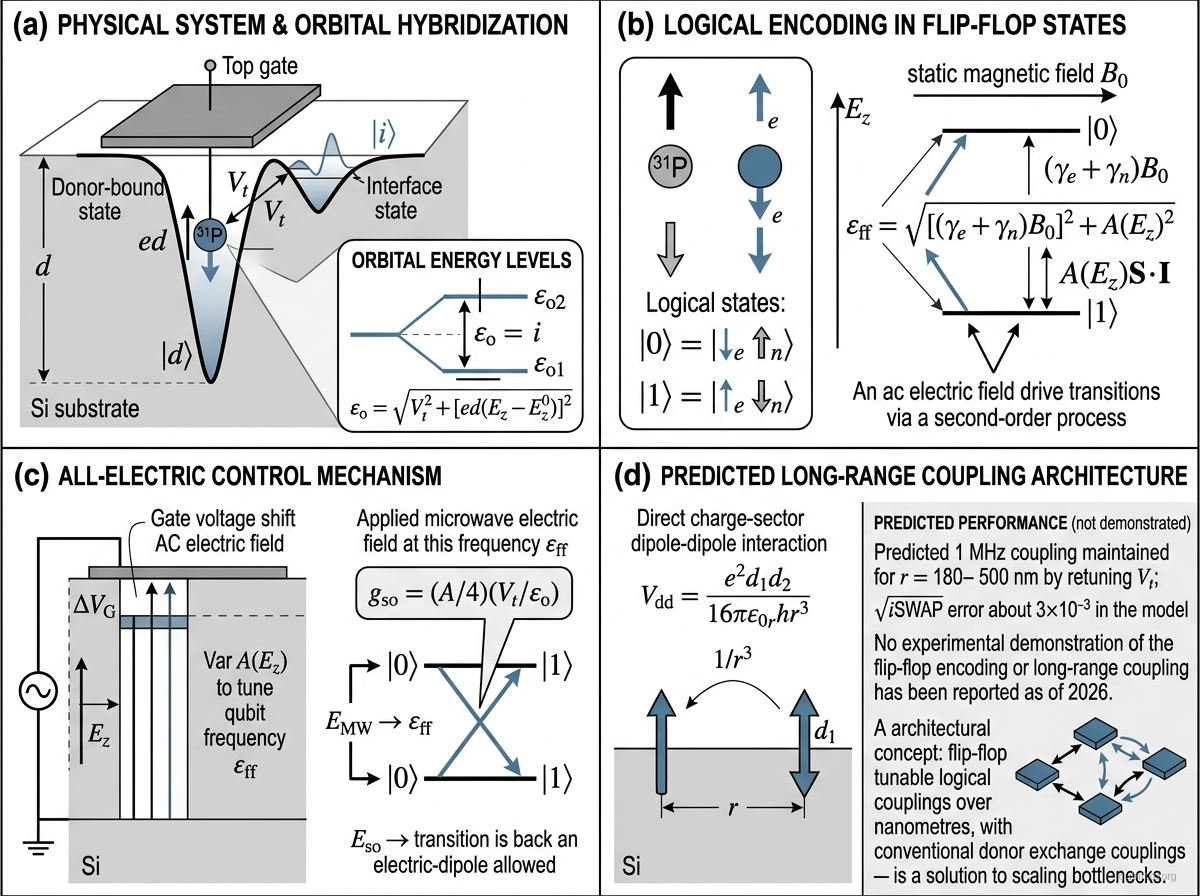
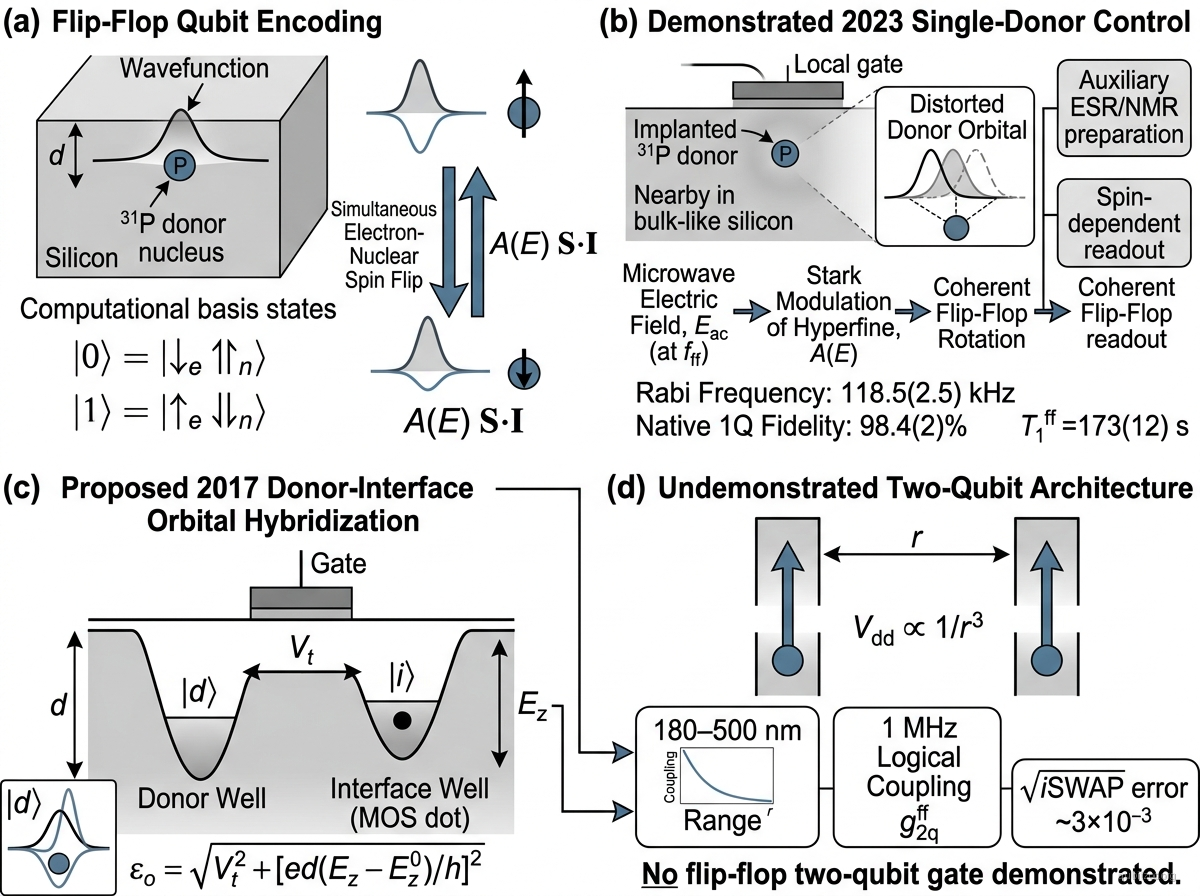
Deep-audit flip-flop qubit

diff --git a/content/Zoo/flip-flop-qubit.md b/content/Zoo/flip-flop-qubit.md
@@ -2,15 +2,15 @@
 title: Flip-Flop Qubit
 entry_type: qubit
 technology_family: Semiconducting
-status: proposed
+status: demonstrated
 figure_reviewed: true
 figure_renderer: "nano-banana-2"
 figure_model: "google/gemini-3.1-flash-image-preview"
 figure_provenance: "Figures/flip-flop-qubit-figure.provenance.json"
-figure_reviewed_by: "Codex corpus visual/physics audit 2026-08-05"
-figure_reviewed_at: "2026-08-05T12:35:45.883950+00:00"
+figure_reviewed_by: "Scibok daily deep audit 2026-09-06"
+figure_reviewed_at: "2026-09-06T14:17:50.790778+00:00"
 first_proposed_year: 2017
-first_demonstrated_year: null
+first_demonstrated_year: 2023
 keywords:
 - flip-flop qubit
 - silicon
@@ -21,10 +21,10 @@ keywords:
 - electron-nuclear spin
 - Tosi
 influence_score: 0.72
-last_updated: '2026-08-02'
+last_updated: '2026-09-06'
 generated_by: scibok-curation
 extracted_by: scibok
-verified_by: codex-recovery-audit-2026-08-02
+verified_by: scibok-deep-audit-2026-09-06
 ---
 
 ## Figure
@@ -33,15 +33,15 @@ verified_by: codex-recovery-audit-2026-08-02
 
 ## Description
 
-The flip-flop qubit encodes quantum information in the combined electron-nuclear spin states of a phosphorus ($^{31}\text{P}$) donor atom in silicon. The two computational basis states are:
+The flip-flop qubit encodes quantum information in the combined electron-nuclear spin states of a phosphorus ($^{31}\text{P}$) donor atom in silicon. Using the convention adopted in the proposal and experimental demonstration, the computational basis states are:
 
-$$|0\rangle = |\!\uparrow_e\, \Downarrow_n\rangle, \quad |1\rangle = |\!\downarrow_e\, \Uparrow_n\rangle$$
+$$|0\rangle = |\!\downarrow_e\, \Uparrow_n\rangle, \quad |1\rangle = |\!\uparrow_e\, \Downarrow_n\rangle$$
 
 where arrows denote electron spin ($\uparrow/\downarrow$) and nuclear spin ($\Uparrow/\Downarrow$) orientations. In each state, the electron and nuclear spins point in opposite directions — hence "flip-flop." These states are connected by a simultaneous electron-nuclear spin flip driven by transverse hyperfine interaction, which can be electrically tuned by displacing the electron wavefunction relative to the nucleus using gate electrodes.
 
-The critical innovation is to hybridize the donor-bound orbital $|d\rangle$ with an interface orbital $|i\rangle$. Their vertical separation $d$ creates a tunable electric dipole $ed$, and hyperfine coupling transfers that electric interaction to the flip-flop spin subspace. In the proposal, a $1\,\text{MHz}$ effective coupling can be maintained for donor separations from 180 to 500 nm by retuning the donor-interface tunnel coupling. That is far less placement-sensitive than the exchange interaction used by conventional donor-spin architectures.
+The 2017 processor proposal adds a deliberately hybridized orbital degree of freedom: a donor-bound orbital $|d\rangle$ and an interface orbital $|i\rangle$. Their vertical separation $d$ creates a tunable electric dipole $ed$, and hyperfine coupling transfers that electric interaction to the flip-flop spin subspace. In the proposal, a $1\,\text{MHz}$ effective coupling can be maintained for donor separations from 180 to 500 nm by retuning the donor-interface tunnel coupling. That is far less placement-sensitive than the exchange interaction used by conventional donor-spin architectures.
 
-The qubit is controlled entirely via microwave electric fields applied to gate electrodes, without requiring oscillating magnetic fields or ESR/NMR pulses. The qubit frequency is tunable via dc gate voltages that shift the electron position, and two-qubit gates are activated by tuning two qubits into resonance.
+The first experiment, reported in 2023, demonstrated coherent electric control of the same flip-flop spin encoding in a single implanted phosphorus donor. It modulated the hyperfine coupling by electrically distorting the donor electron wavefunction, but did **not** reach the donor-interface large-dipole regime or demonstrate the proposed long-range two-qubit coupling. The logical flip-flop rotation itself uses a microwave electric field; the experiment still used auxiliary ESR/NMR operations for preparation and readout.
 
 ## Hamiltonian
 
@@ -51,13 +51,36 @@ $$
 \mathcal H_{\mathrm{orb}}=\frac{1}{2}\left[V_t\sigma_x-\frac{ed(E_z-E_z^0)}{h}\sigma_z\right],
 $$
 
-where $V_t$ is the donor-interface tunnel coupling and $E_z^0$ is the ionization field. The spin sector contains the electron and nuclear Zeeman terms plus the electrically tunable hyperfine interaction $A(E_z)\mathbf S\!\cdot\!\mathbf I$. Its bare flip-flop splitting is
+where $V_t$ is the donor-interface tunnel coupling and $E_z^0$ is the ionization field. Let $P_i=|i\rangle\!\langle i|=(1+\sigma_z)/2$ and $P_d=|d\rangle\!\langle d|=(1-\sigma_z)/2$. A representative spin-orbital Hamiltonian is
+
+$$
+\frac{H}{h}=\mathcal H_{\mathrm{orb}}+\gamma_eB_0(1+\Delta\gamma P_i)S_z-\gamma_nB_0I_z+A P_d\,\mathbf S\!\cdot\!\mathbf I,
+$$
+
+where $\Delta\gamma$ allows for the interface-dependent electron gyromagnetic ratio. The bare flip-flop splitting is
 
 $$
 \epsilon_{\mathrm{ff}}=\sqrt{[(\gamma_e+\gamma_n)B_0]^2+A(E_z)^2}.
 $$
 
-The transverse part of $A\mathbf S\!\cdot\!\mathbf I$ couples the flip-flop and charge sectors with $g_{\mathrm{so}}=(A/4)(V_t/\epsilon_o)$. An ac electric field therefore drives the spin transition through a second-order electric-dipole process.
+with $\gamma_+=\gamma_e+\gamma_n$. The orbital splitting is
+
+$$\epsilon_o=\sqrt{V_t^2+[ed(E_z-E_z^0)/h]^2}.$$
+
+The transverse hyperfine term couples the flip-flop and charge sectors with $g_{\mathrm{so}}=(A/4)(V_t/\epsilon_o)$. In the donor-interface regime, an ac electric field drives the spin transition through the second-order charge-mediated rate
+
+$$
+g_E^{\mathrm{ff}}=\frac{g_{\mathrm{so}}g_E}{2}\left(\frac{1}{\delta_{\mathrm{so}}}+\frac{1}{\delta_E}\right),\qquad
+g_E=\frac{eE_{\mathrm{ac}}d}{4h}\frac{V_t}{\epsilon_o}.
+$$
+
+The 2023 single-donor experiment is described directly in the flip-flop subspace, after dropping a common energy shift, by
+
+$$
+\frac{H_{\mathrm{ff}}}{h}=\frac{1}{2}\left[\gamma_+B_0\sigma_z+A(E)\sigma_x\right],
+$$
+
+so a small hyperfine modulation gives $f_{\mathrm{Rabi}}^{\mathrm{ff}}\simeq [\partial A(E)/(2\partial E)]E_{\mathrm{ac}}$ in the rotating-wave limit.
 
 For two vertical donor-interface dipoles, the direct charge-sector interaction is
 
@@ -74,42 +97,67 @@ The flip-flop qubit addresses the central scaling bottleneck of silicon donor qu
 
 ## Experimental Status
 
-**Theoretical proposal — Tosi et al. (2017):**
+**Donor-interface processor proposal — Tosi et al. (2017):**
 - Proposed the flip-flop qubit encoding and electric dipole coupling mechanism.
 - Calculated one- and two-qubit gate errors near $10^{-3}$ under the paper's realistic-noise assumptions.
 - Showed that coupling to a superconducting microwave resonator could extend entanglement to macroscopic distances.
 - Predicted a tunable $1\,\text{MHz}$ effective coupling across 180–500 nm donor separations; the illustrated $\sqrt{i\mathrm{SWAP}}$ gate used $r=180\,\text{nm}$.
 
-**Status as of 2026:**
-- The flip-flop qubit remains a theoretical proposal; no experimental demonstration of the flip-flop encoding or the predicted long-range dipole coupling has been reported.
-- Related experimental progress includes single-shot readout of individual phosphorus donors (Morello et al.), coherent control of P donor electron and nuclear spins in silicon, and sub-nanometer donor placement via STM lithography (Simmons group).
+**Single-donor demonstration — Savytskyy et al. (2023):**
+- Demonstrated coherent microwave-electric control of the $|\!\downarrow_e\Uparrow_n\rangle\leftrightarrow|\!\uparrow_e\Downarrow_n\rangle$ transition in one implanted $^{31}\text{P}$ donor.
+- Reached a Rabi frequency of $118.5(2.5)\,\text{kHz}$ and an average native one-qubit gate fidelity of $98.4(2)\%$.
+- Measured $T_1^{\mathrm{ff}}=173(12)\,\text{s}$, Ramsey $T_2^*=4.09(88)\,\mu\text{s}$, and Hahn-echo $T_2^{\mathrm H}=184(24)\,\mu\text{s}$.
+- The device used hyperfine Stark modulation of a distorted donor orbital; it did not transfer the electron to an interface dot or test dipole-mediated two-qubit gates.
+
+**2024–2026 updates:**
+- De Michielis and Ferraro (2024/2025) simulated parallel gates in four-qubit arrays and found spectator/parallel-operation effects to be especially severe for simultaneous two-qubit gates; this is a theoretical scaling result, not a hardware benchmark.
+- D'Onofrio, Ferraro, and De Michielis (2026) developed a spin-orbital simulator and predicted composite $\sqrt{i\mathrm{SWAP}}$ and $i\mathrm{SWAP}$ infidelities of $4.72\times10^{-4}$ and $6.14\times10^{-4}$ after local phase compensation in an isolated pair. They also found that spectator qubits require geometry-aware recalibration; the work is an arXiv preprint.
+- A 2026 APS conference abstract reported MHz-rate electric driving of flip-flop states in an antimony-donor/MOS-dot device. This is a conference-level extension to a high-spin donor, not yet a peer-reviewed phosphorus flip-flop processor result.
+
+**Status as of September 2026:** the single-$^{31}\text{P}$ flip-flop encoding and electric control are experimentally demonstrated. The donor-interface large-dipole operating point, the predicted 180–500 nm logical coupling, and any flip-flop two-qubit gate remain undemonstrated.
 
 ## Key Metrics
 
 | Metric | Value | Notes | Fidelity reference |
 |--------|-------|-------|--------------------|
+| 1Q native gate fidelity | $98.4(2)\%$ | Randomized benchmarking; demonstrated single donor | [Savytskyy et al. 2023](https://doi.org/10.1126/sciadv.add9408) |
+| Electric-drive Rabi frequency | $118.5(2.5)\,\text{kHz}$ | Highest applied microwave power in the demonstrated device | [Savytskyy et al. 2023](https://doi.org/10.1126/sciadv.add9408) |
+| $T_1^{\mathrm{ff}}$ | $173(12)\,\text{s}$ | Demonstrated single donor | [Savytskyy et al. 2023](https://doi.org/10.1126/sciadv.add9408) |
+| Ramsey $T_2^*$ | $4.09(88)\,\mu\text{s}$ | Demonstrated single donor | [Savytskyy et al. 2023](https://doi.org/10.1126/sciadv.add9408) |
+| Hahn-echo $T_2^{\mathrm H}$ | $184(24)\,\mu\text{s}$ | Demonstrated single donor | [Savytskyy et al. 2023](https://doi.org/10.1126/sciadv.add9408) |
 | Coupling range | 180–500 nm | Range over which $g_{2q}^{\mathrm{ff}}=1\,\text{MHz}$ was maintained by retuning $V_t$; predicted | [Tosi et al. 2017](https://doi.org/10.1038/s41467-017-00378-x) |
 | Coupling strength | 1 MHz | Tunable second-order logical coupling; predicted | [Tosi et al. 2017](https://doi.org/10.1038/s41467-017-00378-x) |
-| Control mechanism | All-electric | Microwave electric fields via gate electrodes | [Tosi et al. 2017](https://doi.org/10.1038/s41467-017-00378-x) |
 | $\sqrt{i\mathrm{SWAP}}$ error | $\sim3\times10^{-3}$ | Optimized model near $r=180\,\text{nm}$; not demonstrated | [Tosi et al. 2017](https://doi.org/10.1038/s41467-017-00378-x) |
-| 1Q $x/y$-gate error | $\sim10^{-3}$ | Modelled at the ionization point; not demonstrated | [Tosi et al. 2017](https://doi.org/10.1038/s41467-017-00378-x) |
 
 ## Scaling Considerations
 
 - **Fabrication tolerance**: tunability maintains the proposed $1\,\text{MHz}$ coupling across 180–500 nm spacing, but donor depth and interface quality still control $d$, $V_t$, and charge noise.
 - **Charge noise sensitivity**: operating near the charge-spin hybridization point exposes the qubit to charge noise from the Si/SiO₂ interface, which could limit coherence. Optimal operating points that balance dipole strength against charge noise sensitivity need experimental validation.
 - **Magnetic field requirements**: a static magnetic field of ~0.4 T is needed to define the qubit, plus precise tuning to the anticrossing regime — adding complexity.
-- **Experimental validation**: as of 2026, no experimental demonstration of the flip-flop encoding or long-range coupling has been reported, making all performance metrics theoretical predictions.
+- **Experimental gap**: single-qubit electric control is demonstrated, but the intended donor-interface ionization point, long-range dipole coupling, and two-qubit gate have not been demonstrated.
 - **Resonator coupling**: the proposal includes coupling to superconducting resonators for long-range (mm-scale) interactions, but this adds the complexity of integrating superconducting and semiconductor technologies.
 
 ## References
 
 ### Original proposal
-- G. Tosi et al., "Silicon quantum processor with robust long-distance qubit couplings," [Nat. Commun. 8, 450 (2017)](https://doi.org/10.1038/s41467-017-00378-x)
+- G. Tosi et al., "Silicon quantum processor with robust long-distance qubit couplings," [Nat. Commun. 8, 450 (2017)](https://doi.org/10.1038/s41467-017-00378-x) | [arXiv:1509.08538](https://arxiv.org/abs/1509.08538)
+
+### Experimental demonstration
+- R. Savytskyy et al., "An electrically driven single-atom 'flip-flop' qubit," [Sci. Adv. 9, eadd9408 (2023)](https://doi.org/10.1126/sciadv.add9408) | [arXiv:2202.04438](https://arxiv.org/abs/2202.04438)
+
+### Scaling and control studies
+- M. De Michielis and E. Ferraro, "Impact of Parallel Gating on Gate Fidelities in Linear, Square, and Star Arrays of Noisy Flip-Flop Qubits," [Adv. Quantum Technol. 8, 2400341 (2025)](https://doi.org/10.1002/qute.202400341) | [arXiv:2407.20166](https://arxiv.org/abs/2407.20166)
+- L. D'Onofrio, E. Ferraro, and M. De Michielis, "Numerical Optimization of Two-Qubit Gates in Silicon Flip-Flop Qubit Arrays under Electrical Control," [arXiv:2607.29123](https://arxiv.org/abs/2607.29123) (2026 preprint)
+
+### Recent conference report
+- S. Kruskic et al., "Integrating high-spin antimony donors with MOS quantum dots in silicon, Part 2: Flip-Flop qubit operation," [APS Global Physics Summit 2026 abstract](https://meetings-archive.aps.org/smt/2026/mar-y10/4/)
 
 ## Linked Papers
 
 - [[tosi-2017-flip-flop-qubit]]
+- [[savytskyy-2023-electrically-driven-flip-flop-qubit]]
+- [[de-michielis-2025-parallel-gating-flip-flop-arrays]]
+- [[donofrio-2026-flip-flop-two-qubit-optimization]]
 
 ## Evergreen context
 
@@ -123,3 +171,4 @@ The flip-flop qubit addresses the central scaling bottleneck of silicon donor qu
 - [[silicon-spin-qubit]] — broader silicon spin qubit family
 - [[loss-divincenzo-qubit]] — quantum dot spin qubit with short-range exchange coupling
 - [[spin-qubit]] — general spin qubit concept
+- [[circuit-qed]] — proposed resonator bus for millimeter-scale coupling

diff --git a/content/References/savytskyy-2023-electrically-driven-flip-flop-qubit.md b/content/References/savytskyy-2023-electrically-driven-flip-flop-qubit.md
@@ -1,0 +1,43 @@
+---
+title: "An electrically driven single-atom 'flip-flop' qubit"
+authors:
+- Rostyslav Savytskyy
+- Tim Botzem
+- Irene Fernandez de Fuentes
+- Benjamin Joecker
+- Jarryd J. Pla
+- Fay E. Hudson
+- Kohei M. Itoh
+- Alexander M. Jakob
+- Brett C. Johnson
+- David N. Jamieson
+- Andrew S. Dzurak
+- Andrea Morello
+year: 2023
+journal: Science Advances
+volume: "9"
+pages: eadd9408
+doi: 10.1126/sciadv.add9408
+arxiv_id: '2202.04438'
+entry_type: reference
+generated_by: scibok-deep-audit
+last_updated: '2026-09-06'
+---
+
+First experimental demonstration of coherent microwave-electric control of a single $^{31}\text{P}$ electron-nuclear flip-flop qubit in silicon.
+
+## Key Results
+
+- Demonstrated a $118.5(2.5)\,\text{kHz}$ flip-flop Rabi frequency through hyperfine Stark modulation.
+- Measured an average native one-qubit gate fidelity of $98.4(2)\%$ by randomized benchmarking.
+- Measured $T_1^{\mathrm{ff}}=173(12)\,\text{s}$, Ramsey $T_2^*=4.09(88)\,\mu\text{s}$, and Hahn-echo $T_2^{\mathrm H}=184(24)\,\mu\text{s}$.
+- Did not reach the donor-interface large-dipole regime or demonstrate a two-qubit gate.
+
+## Links
+
+- **DOI:** [10.1126/sciadv.add9408](https://doi.org/10.1126/sciadv.add9408)
+- **arXiv:** [2202.04438](https://arxiv.org/abs/2202.04438)
+
+## Cited In
+
+- [[flip-flop-qubit]]

diff --git a/content/References/de-michielis-2025-parallel-gating-flip-flop-arrays.md b/content/References/de-michielis-2025-parallel-gating-flip-flop-arrays.md
@@ -1,0 +1,32 @@
+---
+title: "Impact of Parallel Gating on Gate Fidelities in Linear, Square, and Star Arrays of Noisy Flip-Flop Qubits"
+authors:
+- Marco De Michielis
+- Elena Ferraro
+year: 2025
+journal: Advanced Quantum Technologies
+volume: "8"
+pages: "2400341"
+doi: 10.1002/qute.202400341
+arxiv_id: '2407.20166'
+entry_type: reference
+generated_by: scibok-deep-audit
+last_updated: '2026-09-06'
+---
+
+Simulation study of parallel one- and two-qubit gates in four-qubit flip-flop arrays under realistic $1/f$ electric-field noise.
+
+## Key Results
+
+- Compared linear, square, and star layouts for parallel operations.
+- Found that simultaneous two-qubit gates are substantially more vulnerable to spectator and geometry effects than one-qubit operations.
+- Reported an average modeled $i\mathrm{SWAP}$ infidelity increase from roughly 0.02 for one operation to 0.2 for two parallel operations in the studied conditions.
+
+## Links
+
+- **DOI:** [10.1002/qute.202400341](https://doi.org/10.1002/qute.202400341)
+- **arXiv:** [2407.20166](https://arxiv.org/abs/2407.20166)
+
+## Cited In
+
+- [[flip-flop-qubit]]

diff --git a/content/References/donofrio-2026-flip-flop-two-qubit-optimization.md b/content/References/donofrio-2026-flip-flop-two-qubit-optimization.md
@@ -1,0 +1,30 @@
+---
+title: "Numerical Optimization of Two-Qubit Gates in Silicon Flip-Flop Qubit Arrays under Electrical Control"
+authors:
+- Lorenzo D'Onofrio
+- Elena Ferraro
+- Marco De Michielis
+year: 2026
+journal: arXiv preprint
+doi: null
+arxiv_id: '2607.29123'
+entry_type: reference
+generated_by: scibok-deep-audit
+last_updated: '2026-09-06'
+---
+
+Spin-orbital simulation and control-optimization study for electrically driven two-qubit gates in flip-flop arrays.
+
+## Key Results
+
+- Used Makhlin invariants to identify operations locally equivalent to $\sqrt{i\mathrm{SWAP}}$ and $i\mathrm{SWAP}$.
+- Predicted isolated-pair composite-gate infidelities of $4.72\times10^{-4}$ and $6.14\times10^{-4}$ after local $R_z$ phase compensation.
+- Found that idle spectators distort the nonlocal interaction and require geometry-aware recalibration.
+
+## Links
+
+- **arXiv:** [2607.29123](https://arxiv.org/abs/2607.29123)
+
+## Cited In
+
+- [[flip-flop-qubit]]

diff --git a/content/References/tosi-2017-flip-flop-qubit.md b/content/References/tosi-2017-flip-flop-qubit.md
@@ -13,6 +13,7 @@ journal: Nature Communications
 volume: "8"
 pages: "450"
 doi: 10.1038/s41467-017-00378-x
+arxiv_id: '1509.08538'
 entry_type: reference
 tags:
 - flip-flop qubit
@@ -29,3 +30,8 @@ Proposes the flip-flop qubit: encoding quantum information in the combined elect
 ## Cited In
 
 - [[flip-flop-qubit]]
+
+## Links
+
+- **DOI:** [10.1038/s41467-017-00378-x](https://doi.org/10.1038/s41467-017-00378-x)
+- **arXiv:** [1509.08538](https://arxiv.org/abs/1509.08538)
